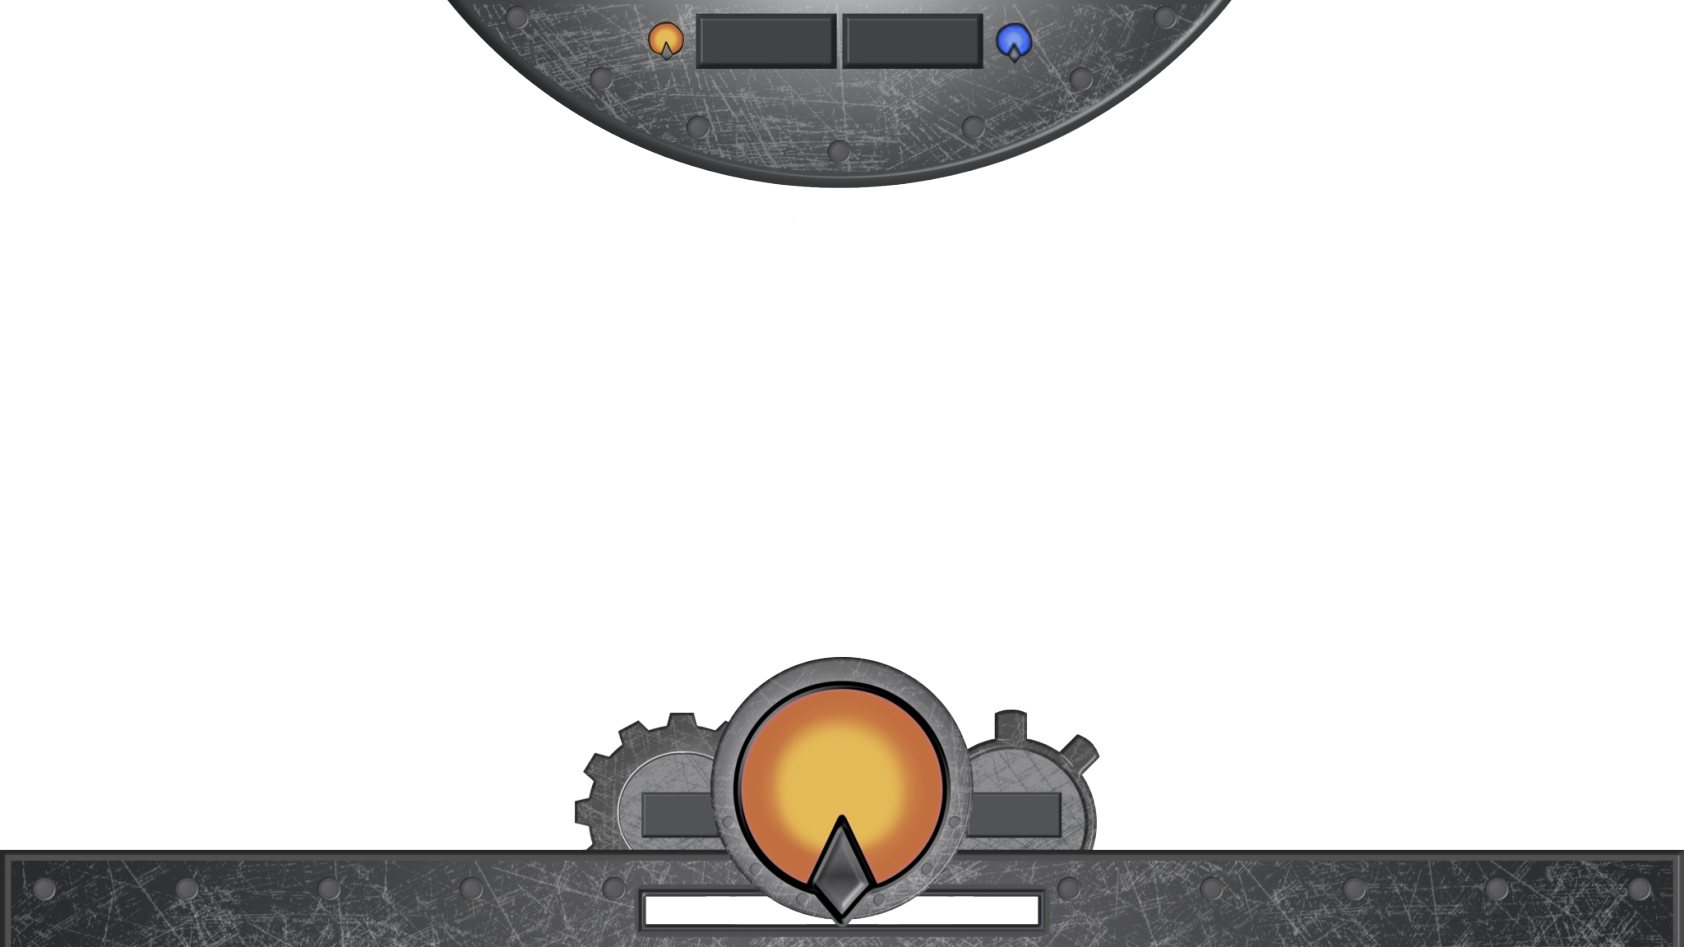
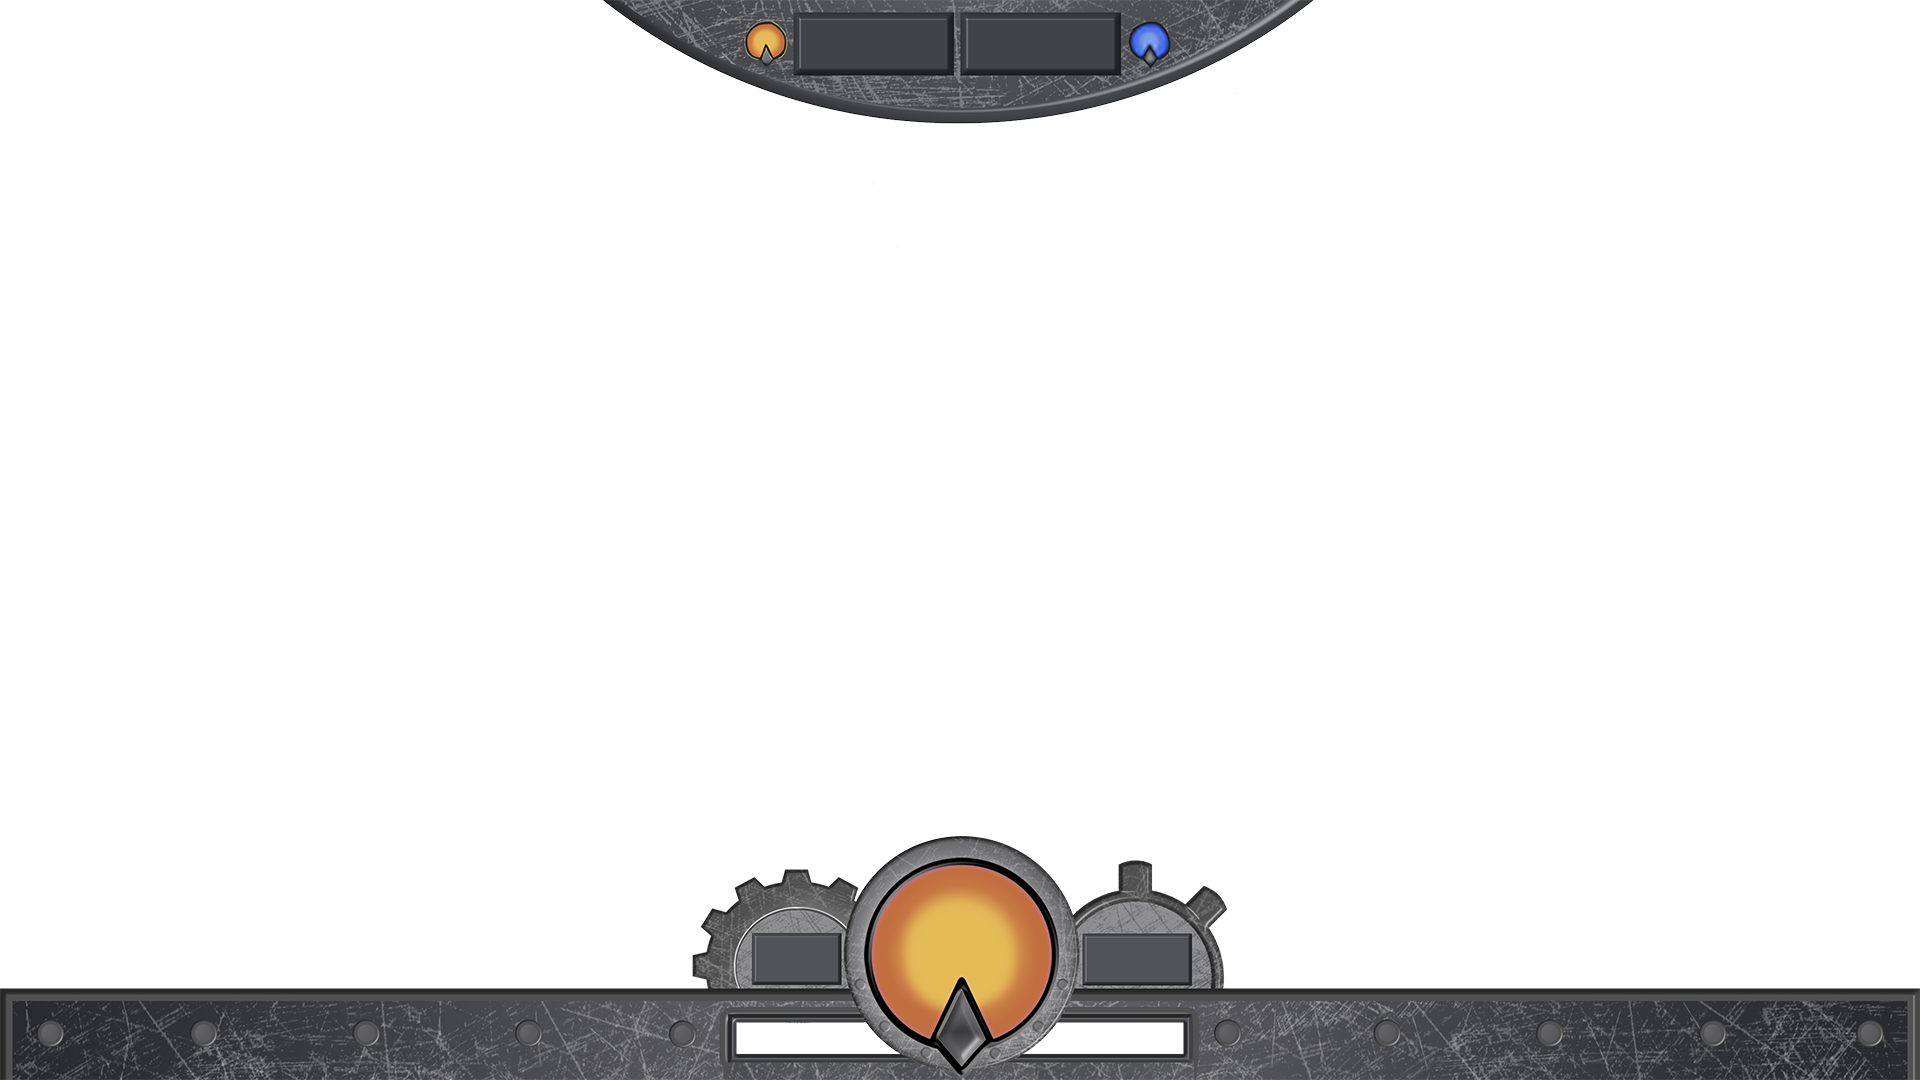
Lebensbalken

Changed region(s): [[0.0, 0.6737, 1.0, 1.0], [0.247, 0.0, 0.7411, 0.2144]]

diff --git a/gdx-junkyardbattle/src/main/java/de/hochschuletrier/gdw/ss15/game/systems/HudSystem.java b/gdx-junkyardbattle/src/main/java/de/hochschuletrier/gdw/ss15/game/systems/HudSystem.java
@@ -67,10 +67,11 @@ public class HudSystem extends IteratingSystem {
             if (localPlayer == null){
                 this.localPlayer = entity;
             }
-            System.out.println("test");
             drawCrosshair(entity);
             lebensBalken();
             showHudOverlay();
+            schrottAnzeige();
+            timer();
             radar(entity);
         }
     }
@@ -91,13 +92,14 @@ public class HudSystem extends IteratingSystem {
 
         lineToPlayer.scl(radarScale);
         //DrawUtil.batch.draw("icon für spieler", radarMitte + vector);
-        DrawUtil.drawRect(Gdx.graphics.getWidth()/2,Gdx.graphics.getHeight()/2,10,10);
+        DrawUtil.drawRect(Gdx.graphics.getWidth() / 2, Gdx.graphics.getHeight() / 2, 10, 10);
         //Gdx.graphics.getWidth()/2,Gdx.graphics.getHeight()-Gdx.graphics.getHeight/4
     }
 
 
     private void lebensBalken() {
         Color healthColor;
+        int health = localPlayer.getComponent(HealthComponent.class).health;
         if (HudDebug.health >= 50 && HudDebug.health <= 100)
             healthColor = Color.GREEN;
         else if (HudDebug.health <= 50 && HudDebug.health >= 25)
@@ -108,19 +110,32 @@ public class HudSystem extends IteratingSystem {
 
         float healthSizeFactor = (float) HudDebug.health / 100.0f;
         float scaleXFactor = 392.0f / (float) hudoverlay.getWidth();
-        float relativeXPos = 646.0f / hudoverlay.getWidth() * Gdx.graphics.getWidth();
-        float relativeYPos = Gdx.graphics.getHeight() - 51.0f / hudoverlay.getHeight() * Gdx.graphics.getHeight();
+        float relativeXPosLeft = 646.0f / hudoverlay.getWidth() * Gdx.graphics.getWidth();
+        float relativeYPosLeft = Gdx.graphics.getHeight() - 51.0f / hudoverlay.getHeight() * Gdx.graphics.getHeight();
+        float relativeXPosRight = 646.0f / hudoverlay.getWidth() * Gdx.graphics.getWidth();
+        float relativeYPosRight = Gdx.graphics.getHeight() - 51.0f / hudoverlay.getHeight() * Gdx.graphics.getHeight();
         float barHeight = 28.0f / hudoverlay.getHeight() * Gdx.graphics.getHeight();
         float barWidth = 392.0f / hudoverlay.getWidth() * Gdx.graphics.getWidth();
 
-        DrawUtil.fillRect(relativeXPos, relativeYPos, barWidth * healthSizeFactor, barHeight, healthColor);
+        //linkeBox
+        DrawUtil.fillRect(relativeXPosLeft - (barWidth * (healthSizeFactor -1)), relativeYPosLeft, barWidth * healthSizeFactor, barHeight, healthColor);
+        //rechteBox
+        //DrawUtil.fillRect(relativeXPosRight, relativeYPosRight, barWidth * healthSizeFactor, barHeight, healthColor);
 
-        //font.draw(DrawUtil.batch, "scaleXFactor: " + scaleXFactor, 0, Gdx.graphics.getHeight() / 2);
+        //font.draw(DrawUtil.batch, "health: " + health, 0, Gdx.graphics.getHeight() / 2);
         //font.draw(DrawUtil.batch, "barWidth: " + barWidth , 0, Gdx.graphics.getHeight() / 2 + 200);
     }
 
     private void schrottAnzeige(){
-        localPlayer.getComponent(InventoryComponent.class).getMetalShards();
+        int schrottcount = localPlayer.getComponent(InventoryComponent.class).getMetalShards();
+        float relativeXPos = 646.0f / hudoverlay.getWidth() * Gdx.graphics.getWidth();
+        float relativeYPos = Gdx.graphics.getHeight() - 51.0f / hudoverlay.getHeight() * Gdx.graphics.getHeight();
+
+        //font.draw(DrawUtil.batch, "" + schrottcount, 0, Gdx.graphics.getHeight() / 2);
+    }
+
+    private void timer() {
+
     }
 
     private void showHudOverlay() {
